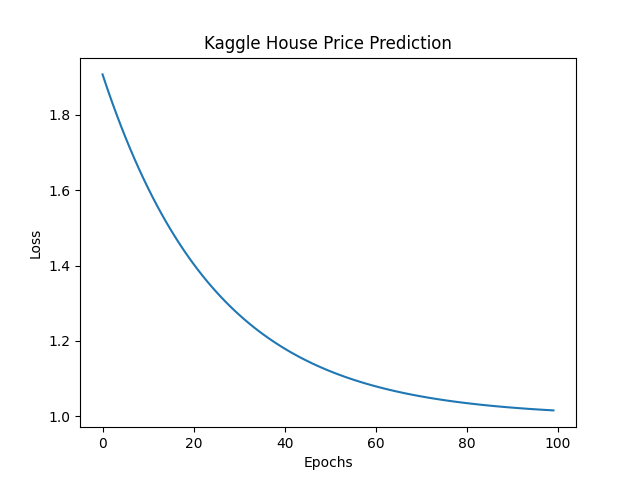
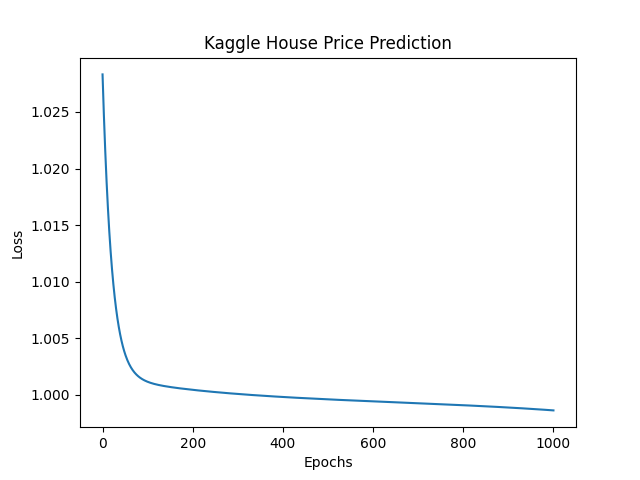
house: E1000 L0.9986200332641602 EX181149.0

diff --git a/house/house.py b/house/house.py
@@ -41,9 +41,14 @@ class Model(nn.Module):
         return x
 
 
+def clean(df):
+    df.fillna(TRAIN.LotFrontage.mean(), inplace=True)
+    return df
+
+
 def normalize(df: pd.DataFrame, features: list[str]) -> torch.Tensor:
     df = df[features].copy()
-    assert df.isna.any().any()
+    assert df.isna().any().any() == False
     for column in df.columns:
         df[column] = (TRAIN[column] - TRAIN[column].mean()) / TRAIN[column].std()
     return torch.tensor(df.to_numpy(), dtype=torch.float32)
@@ -54,7 +59,7 @@ def unnormalize(t: torch.Tensor) -> torch.Tensor:
     return torch.round(t)
 
 
-X = normalize(TRAIN, FEATURES)
+X = normalize(clean(TRAIN), FEATURES)
 y = normalize(TRAIN, ["SalePrice"])
 
 epochs = []
@@ -63,8 +68,8 @@ losses = []
 model = Model()
 criterion = nn.MSELoss()
 optimizer = optim.SGD(model.parameters(), lr=0.01)
-EPOCHS: Final = 100
-for epoch in range(EPOCHS):
+EPOCHS: Final = 1000
+for epoch in range(EPOCHS + 1):
     optimizer.zero_grad()
     output = model(X)
     loss = criterion(output, y)
@@ -75,8 +80,7 @@ for epoch in range(EPOCHS):
     losses.append(loss.item())
 
     if epoch % (EPOCHS // 10) == 0:
-        print(f"{loss.item()}")
-        print(f"{unnormalize(model(X)[0]).item()}")
+        print(f"house: E{epoch} L{loss.item()} EX{unnormalize(model(X)[0]).item()}")
 
 if not SUBMIT:
     plt.plot(epochs, losses)
